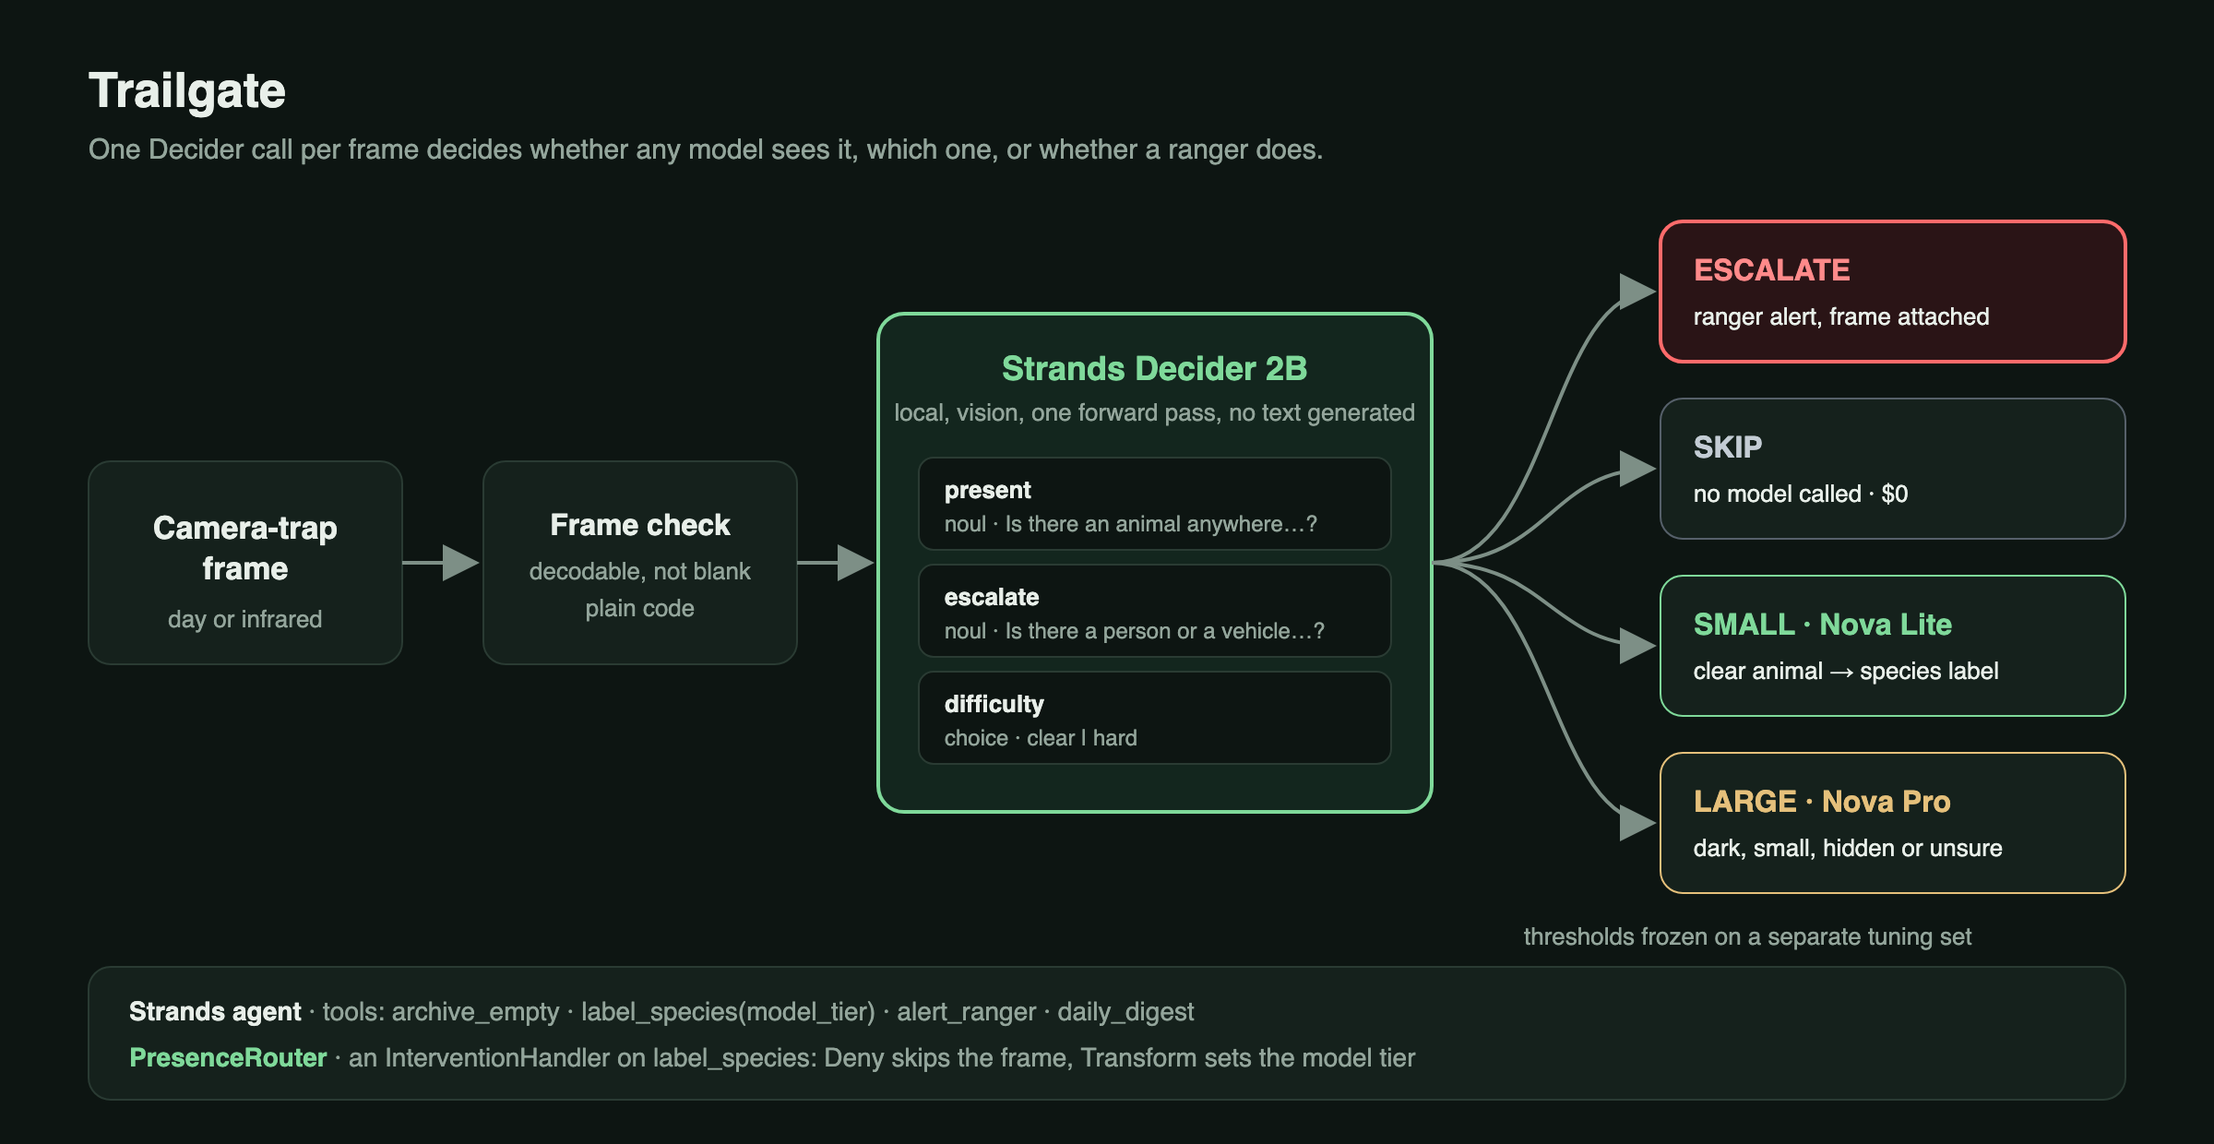
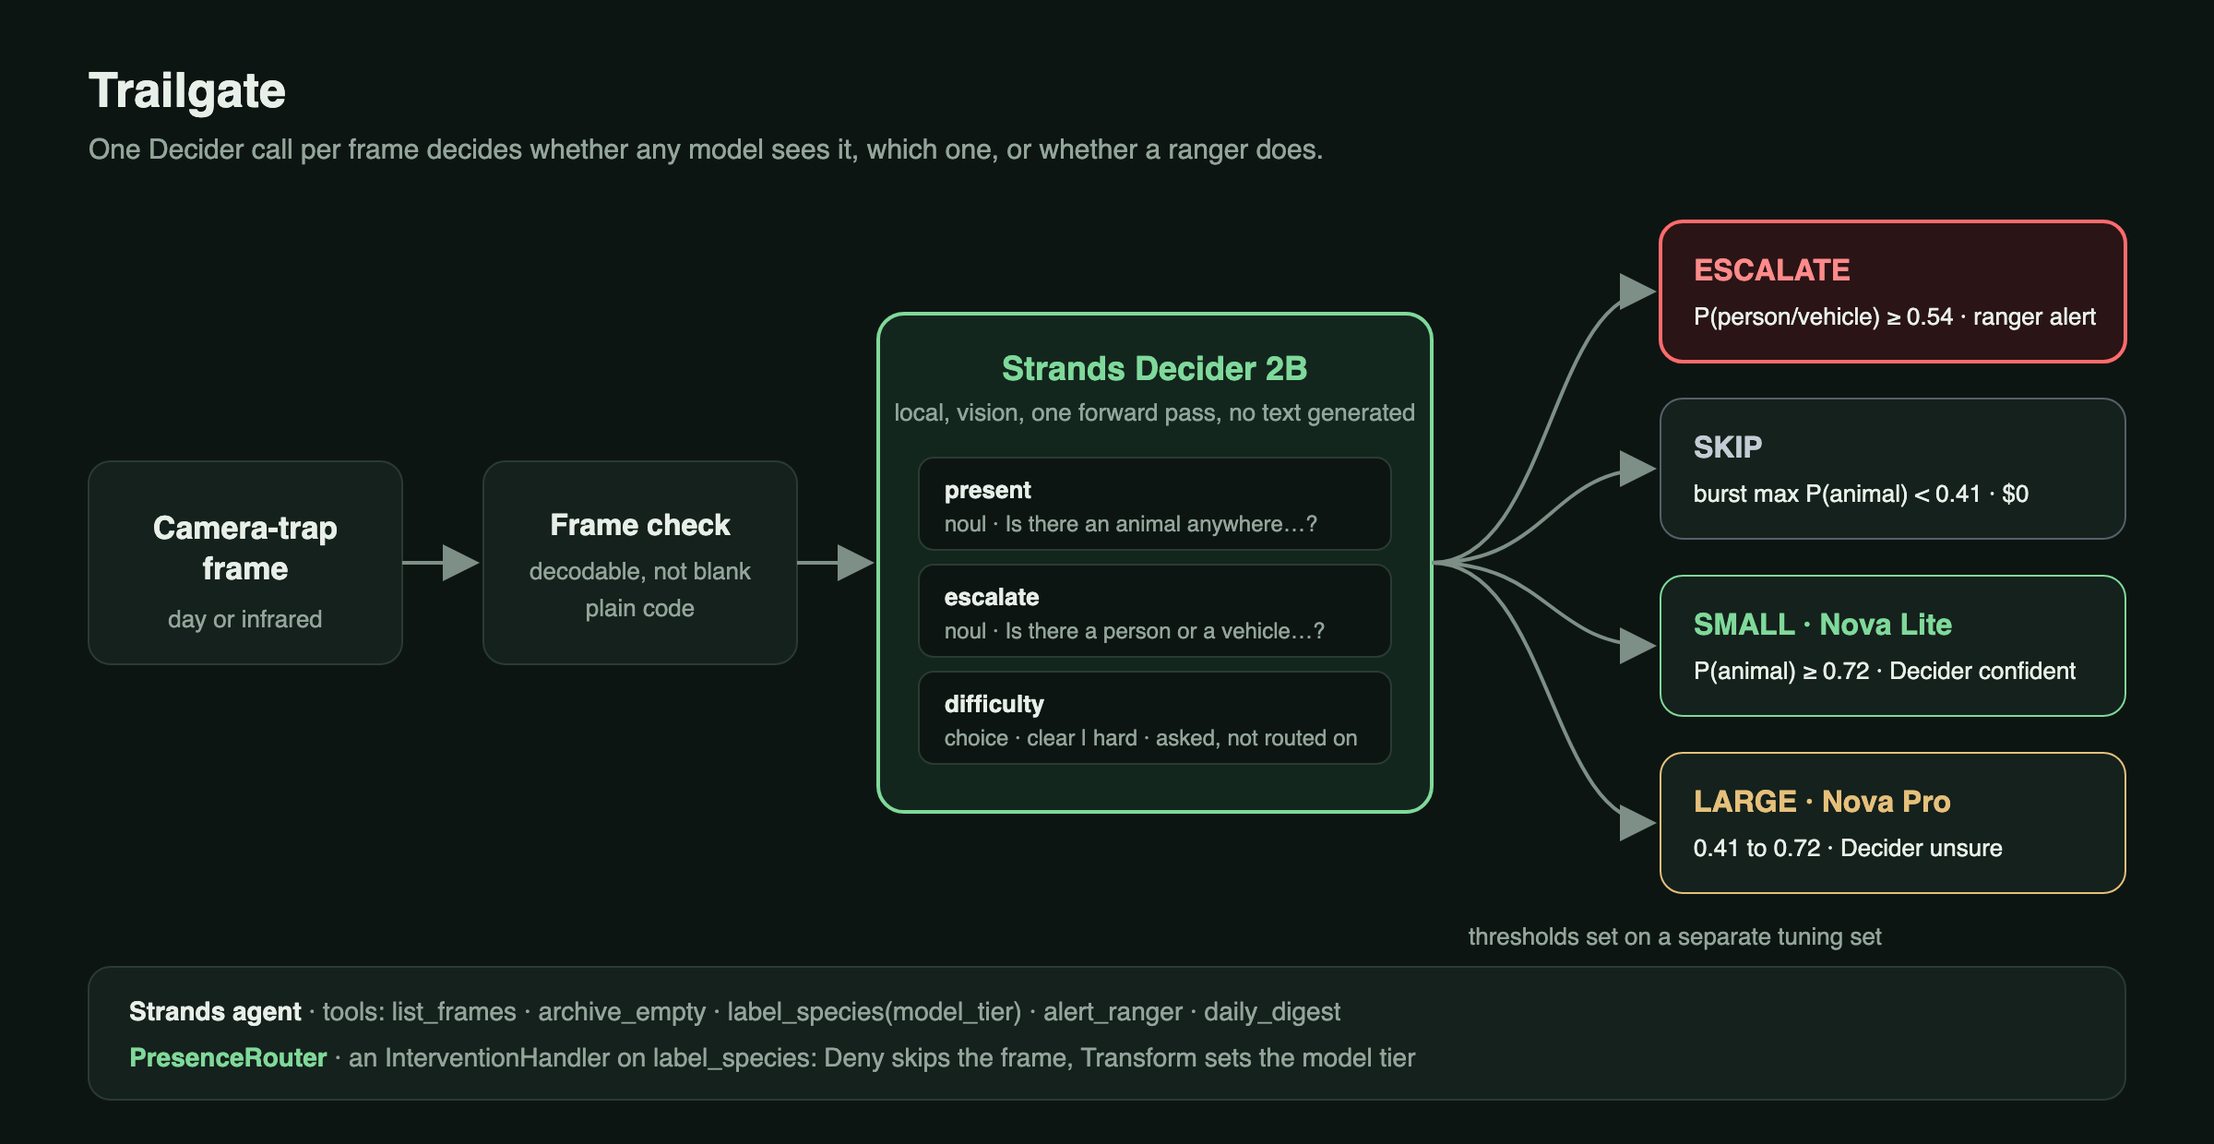
docs(readme): add frame-weighted results

diff --git a/README.md b/README.md
@@ -1,18 +1,18 @@
 # Trailgate
 
-**A 2B model decides which camera-trap photos are worth a model's time.** Empty frames are skipped with no model call. Animals go to the right-sized Amazon Nova model. A person or vehicle goes straight to the ranger.
+**A 2B model decides which camera-trap photos are worth a model's time.** Empty frames are skipped with no model call, animals go to the right-sized Amazon Nova model, and a person or vehicle goes to the ranger.
 
 Built for the AWS Builder Center *Agent Experience Hackathon: Strands Decider*. Tags: `#strands-decider-2b` `#model-routing`.
 
-**Try it in a browser:** https://trytrailgate.vercel.app replays real Decider answers on held-out frames in the ranger console. It is a static replay; running Decider live needs the local setup below.
+**Try it in a browser.** https://trytrailgate.vercel.app replays real Decider answers on held-out frames in the ranger console. It is a static replay with Bedrock costs shown as estimates. Running Decider live needs the local setup below.
 
 ![Six held-out Caltech Camera Traps frames, each stamped with the route Trailgate gave it](assets/cover.png)
 
 ## The problem
 
-Camera traps fire on anything that moves: wind, grass, heat shimmer. In the Caltech Camera Traps label file, 125,745 of 243,100 images are labelled empty (51.7%). People sort these cards by hand, often weeks after the memory card is pulled, so a vehicle on a trail at night is seen long after it mattered.
+Camera traps fire on anything that moves, including wind, grass and heat shimmer. In the Caltech Camera Traps label file, 125,745 of 243,100 images are labelled empty (51.7%). Someone has to sort those by hand, and a vehicle on a trail at night sits in the same pile as the grass.
 
-Sending every frame to a vision model works, but you pay for every empty frame, and the cheapest model is not the one you want on a dark infrared shot.
+Sending every frame to a vision model works, but you pay for every empty frame, and the cheapest model is the wrong one for a dark infrared shot.
 
 ## What Trailgate does
 
@@ -20,18 +20,18 @@ Every frame gets one call to Strands Decider 2B, running locally with its vision
 
 | Route | When | What happens | Cost |
 |---|---|---|---|
-| **Alert** | P(person or vehicle) ≥ 0.54 in any frame of the burst | Ranger alert with the frame attached (outbox, optional Amazon SNS); Nova writes the one-line note | Nova Lite + Nova Pro |
+| **Alert** | P(person or vehicle) ≥ 0.54 in any frame of the burst | Ranger alert naming the frame (outbox, optional Amazon SNS); Nova writes the one-line note | Nova Lite + Nova Pro |
 | **Skip** | max P(animal) over the burst < 0.41 | Archived. No model is called | $0 |
-| **Nova Lite** | P(animal) ≥ 0.72: Decider is confident | Species label from the 21 CCT classes | Nova Lite |
-| **Nova Pro** | anything in between: Decider is unsure | Species label from the stronger model | Nova Pro |
+| **Nova Lite · Decider confident** | P(animal) ≥ 0.72 | Species label from the 21 CCT classes | Nova Lite |
+| **Nova Pro · Decider unsure** | anything in between | Species label from the stronger model | Nova Pro |
 
-Thresholds were set on a separate tuning set of 13 camera locations and frozen before the held-out run (`results/thresholds.json`, rule written next to each value).
+These are the v2 thresholds. I set them on a separate tuning set from 13 camera locations and froze them before the held-out run. `results/thresholds.json` records the rule behind each value.
 
 ![Architecture](assets/architecture.png)
 
 ## The decision handed to Decider
 
-Pattern tag: **`#model-routing`**. The question is "does this frame need a model at all, and if so, which one?", and the cheapest tier is no model.
+Pattern tag **`#model-routing`**. The question is "does this frame need a model at all, and if so, which one?", and the cheapest tier is no model. Two questions are `noul`, Decider's yes/no type, which returns P(true). `difficulty` is a `choice` between `clear` and `hard`. All three go in one call, so the image is encoded once.
 
 ```python
 {
@@ -66,7 +66,7 @@ Remove Decider and the agent has no way to decide what to skip, which model to p
 
 ## Results
 
-Held-out set: **600 Caltech Camera Traps frames from 71 camera locations never used for tuning**, in their natural mix (310 empty, 271 animal, 19 vehicle), plus 40 more vehicle frames. Every frame of each held-out burst was asked (1,079 frames). One Decider call per frame. Full tables: [`results/metrics.md`](results/metrics.md).
+The held-out set is **600 Caltech Camera Traps frames from 71 camera locations never used for tuning**, in their natural mix (310 empty, 271 animal, 19 vehicle), plus 40 more vehicle frames. Decider answered every frame of each held-out burst, 1,079 frames, with one call per frame. Full tables are in [`results/metrics.md`](results/metrics.md).
 
 | | Empty frames skipped | Animal frames missed | Vehicles caught | Decider latency p50 / p90 |
 |---|---|---|---|---|
@@ -75,8 +75,8 @@ Held-out set: **600 Caltech Camera Traps frames from 71 camera locations never u
 | Night (infrared) | 32/82 (39.0%) | 4/159 (2.5%) | | |
 
 - **The missed animals, checked by eye.** Of the 9 animal frames Trailgate skipped, 1 shows an animal clearly (a bird's tail in a corner), 4 show something faint (eye shine or a shape), and in 4 I can see nothing. Thumbnails: [`results/missed.md`](results/missed.md).
-- **Alerts.** 4 held-out frames without a `car` label raised an alert. 3 of them show people: the dataset has no person class and labels them `empty`, so those alerts are correct. 1 is a true false alert, a deer under a street lamp. The 2 missed vehicles are a dark dawn frame and a motion-blurred shape under a bridge.
-- **Calibration.** When Decider gives P(animal) ≥ 0.9, the frame has an animal 171 times out of 172. Between 0.2 and 0.7 the scores are poorly calibrated, which is why that band goes to the stronger model instead of being trusted.
+- **Alerts.** 4 held-out frames without a `car` label raised an alert. 3 of them show people, whom the dataset labels `empty` because it has no person class, so those alerts are correct. 1 is a true false alert, a deer under a street lamp. The 2 missed vehicles are a dark dawn frame and a motion-blurred shape under a bridge.
+- **Low confidence goes to Nova Pro.** When Decider gives P(animal) ≥ 0.9, the frame has an animal 171 times out of 172. Between 0.2 and 0.7 the scores are poorly calibrated, so that band goes to the stronger model. On the held-out set it held 165 of 600 frames.
 
 ![Skip threshold against animals missed](results/tradeoff.png)
 
@@ -91,9 +91,9 @@ The skip threshold is a safety knob. With v2 at 0.20, no held-out animal is miss
 | Trailgate v1 (difficulty-gated, superseded) | $10.27 |
 | Nova Lite on every frame | $1.20 |
 
-These are estimates: Bedrock on-demand prices (AWS Price List API, us-east-1) times Nova's documented image token counts for a 1024×747 frame, about 1,944 input tokens per call. Bedrock calls were not measured, because the Bedrock quota on the account used for this build was 0 during the hackathon. `scripts/run_nova_baseline.py` measures them, with species accuracy, on any account with Nova access, and `scripts/evaluate.py` merges the result.
+All Bedrock costs here are estimates. They are Bedrock on-demand prices (AWS Price List API, us-east-1) times Nova's documented image token counts for a 1024×747 frame, about 1,944 input tokens per call. I could not measure Bedrock calls because the account's Bedrock quota for Nova was 0 during the hackathon. `scripts/run_nova_baseline.py` measures them, with species accuracy, on any account with Nova access, and `scripts/evaluate.py` merges the result. Decider itself is measured, at p50 472 ms and $0 per frame.
 
-Trailgate costs 35% of Nova Pro on every frame and sends 26.5% of all frames nowhere. It costs more than Nova Lite on every frame, because the 165 frames Decider is unsure about go to Nova Pro. If Nova Lite proves accurate enough on those frames, set `TRAILGATE_LARGE_MODEL` to Nova Lite: with the same token estimate, that comes to about $0.93 per 10,000 frames, below Nova Lite on every frame.
+Trailgate costs 34.6% of Nova Pro on every frame and sends 26.5% of the sampled frames to no model. Those figures count one sampled frame per burst, the unit the dataset labels. Counted over all 1,079 frames of the held-out bursts, 17.4% of frames reach no model, 165 of 354 empty frames (46.6%) are skipped, and 23 of 706 animal frames (3.3%) are skipped. It costs more than Nova Lite on every frame, because the 165 frames Decider is unsure about go to Nova Pro. If Nova Lite proves accurate enough on those frames, set `TRAILGATE_LARGE_MODEL` to Nova Lite. With the same token estimate that comes to about $0.93 per 10,000 frames, below Nova Lite on every frame.
 
 ### What changed between v1 and v2
 
@@ -103,31 +103,31 @@ Trailgate costs 35% of Nova Pro on every frame and sends 26.5% of all frames now
 | v2 without bursts (ablation) | 49.0% | 23/271 (8.5%) | $5.10 |
 | **v2: confidence band + burst context** | **48.4%** | **9/271 (3.3%)** | **$5.55** |
 
-Two findings drove v2, and both are in the data:
+Two findings drove v2, and both are in the data.
 
-1. **The difficulty question carries little signal.** Decider called 504 of 600 frames "hard", and P(hard) separates night infrared frames from day frames with AUC 0.67. v1 sent every "hard" frame to Nova Pro. v2 still asks the question, since a batched question is nearly free, but routes on Decider's confidence in P(animal) instead.
-2. **Camera traps fire in bursts, and the dataset labels the burst.** 13 of v1's 16 misses were the second or third frame of a burst, often after the animal had left the frame. v2 skips a frame only if no frame in its burst scores above the threshold. That cut missed animal frames from 23 to 9 at the same thresholds.
+1. **The difficulty question carries little signal.** Decider called 504 of 600 frames "hard", including 192 of 271 animal frames, and P(hard) separates night infrared frames from day frames with AUC 0.67. v1 sent every "hard" frame to Nova Pro. v2 still asks the question, since a batched question is nearly free, but routes on Decider's confidence in P(animal) instead.
+2. **Camera traps fire in bursts, and the dataset labels the burst.** 13 of v1's 16 misses were the second or third frame of a burst, often after the animal had left the frame. The burst rule in v2 skips a frame only if no frame in its burst scores above the threshold. That cut missed animal frames from 23 to 9 at the same thresholds.
 
-v2's thresholds were derived again from the tuning set only. The held-out set was evaluated once per policy.
+I derived v2's threshold values again from the tuning set only. The v2 policy itself, though, was chosen after seeing where v1 failed on the held-out set, so v2's held-out numbers are a second look at the same frames, not a clean first test. The ablation row shows what each change does on its own.
 
 ### Question wording (tuning set)
 
-Following Mike Chambers' method, five wordings of the presence question were scored in one batched Decider call per frame ([`results/wording.md`](results/wording.md)). Adding explicit true/false criteria barely moved AUC (0.951 to 0.954), but it lifted the scores of real animals: at a 0.35 threshold, recall rose from 88.4% to 100%. Asking the same wording in a 9-question call and in the 3-question production call changed P(animal) by at most 0.004.
+Following Mike Chambers' method, I scored five wordings of the presence question in one batched Decider call per frame ([`results/wording.md`](results/wording.md)). Adding explicit true/false criteria barely moved AUC (0.951 to 0.954), but it lifted the scores of real animals. At a 0.35 threshold, recall rose from 88.4% to 100%. Asking the same wording in a 9-question call and in the 3-question production call changed P(animal) by at most 0.004.
 
 ## Why each product
 
 | Product | Role | Why it, measured |
 |---|---|---|
-| **Strands Decider 2B** | The routing decision on every frame | One forward pass, no text generated: p50 472 ms per frame on an Apple M5 laptop, $0 per call. Three questions about one image cost one encode. It returns probabilities, so the policy is a threshold set on labelled data, not a prompt. |
+| **Strands Decider 2B** | The routing decision on every frame | One forward pass, no text generated. p50 472 ms per frame on an Apple M5 laptop, $0 per call. Three questions about one image cost one encode. It returns probabilities, so the policy is a threshold set on labelled data, not a prompt. |
 | **Amazon Bedrock, Nova Lite** | Species label when Decider is confident | 13× cheaper per input token than Nova Pro ($0.00006 vs $0.0008 per 1K) |
 | **Amazon Bedrock, Nova Pro** | Species label when Decider is unsure | The stronger model goes only to the 165 of 600 frames in Decider's uncertain band |
 | **Bedrock Converse API** | Image bytes in, structured JSON out | One call shape for both Nova tiers and the alert writer; the tier is a model id |
-| **Strands Agents** | The ranger's agent: `archive_empty`, `label_species`, `alert_ranger`, `daily_digest` | `InterventionHandler` puts the decision in the tool path: `Deny` skips the frame before the model runs, `Transform` sets the tier |
+| **Strands Agents** | The ranger's agent, with `list_frames`, `archive_empty`, `label_species`, `alert_ranger`, `daily_digest` | `InterventionHandler` puts the decision in the tool path. `Deny` skips the frame before the model runs, `Transform` sets the tier |
 | **Amazon SNS** (optional) | Ranger alert to a phone | Set `TRAILGATE_ALERT_TOPIC_ARN`; alerts always land in `outbox/alerts.jsonl` too |
 
 ## The reusable pattern: `PresenceRouter`
 
-[`patterns/presence_router/`](patterns/presence_router/) holds the typed questions, a framework-free router, and a Strands `InterventionHandler`. It works for any agent that sends images to an expensive model: change `target` to "a parcel or package", "a defect" or "a document".
+[`patterns/presence_router/`](patterns/presence_router/) holds the typed questions (`questions.py`), a framework-free router with the confidence band and burst rule (`router.py`), the Strands `InterventionHandler` (`handler.py`) and a wording and threshold tuner (`tune_questions.py`). It works for any agent that sends images to an expensive model. Change `target` to "a parcel or package", "a defect" or "a document".
 
 ```python
 from strands import Agent
@@ -141,14 +141,14 @@ router = PresenceRouter(
 agent = Agent(tools=[describe_image], interventions=[router])
 ```
 
-`on_error = "proceed"`: if Decider is down, the tool runs with the larger model, so a broken router costs money but never drops an image. [`examples/parcel_photos.py`](examples/parcel_photos.py) is a second agent built on it. The pattern README covers thresholds from your own 50 labelled images, burst routing and limits.
+The handler sets `on_error = "proceed"`. If Decider is down, the tool runs with the larger model, so a broken router costs money but never drops an image. [`examples/parcel_photos.py`](examples/parcel_photos.py) is a second agent built on it. The [pattern README](patterns/presence_router/README.md) covers setting thresholds from about 50 of your own labelled images, burst routing and limits.
 
 ## Limits
 
 - Decider is zero-shot on images. These numbers hold for Caltech Camera Traps frames; measure on your own cameras before trusting the thresholds.
 - Night infrared is weaker: 39.0% of empty night frames skipped, against 51.8% by day.
 - The tuning set's zero-miss threshold did not transfer to held-out cameras without misses (AUC 0.954 on tuning, 0.900 on held-out at the frame level).
-- Decider stays confident on a blank image, so frames are checked in code (decodable, not uniform) before Decider sees them.
+- Decider stays confident on a blank image, so code checks each frame (decodable, not uniform) before Decider sees it.
 - The tuning set has only 5 person or vehicle frames. The vehicle numbers come from 59 held-out vehicle frames; people come only from frames the dataset mislabels as empty.
 - Bedrock costs are estimates until `scripts/run_nova_baseline.py` runs on an account with Nova quota.
 - Small sets: 0 errors on a subset means none on these frames, not solved.
@@ -165,11 +165,11 @@ python scripts/fetch_cct.py                         # tuning, held-out and vehic
 python scripts/fetch_bursts.py                      # the rest of each held-out burst
 python -m trailgate run /path/to/card --digest                                   # triage a card, bursts grouped by EXIF time
 python -m trailgate run --manifest data/heldout_bursts.csv --no-bedrock  # held-out bursts, Decider routing only
-python -m trailgate agent "Process tonight's card in data/images and tell me what needs me"
+python -m trailgate agent "Process the card in /path/to/small/folder and tell me what needs me"
 python -m trailgate.server                          # ranger console on http://127.0.0.1:8000
 ```
 
-`--vision` runs on PyTorch devices (`mps`, `cuda`, `cpu`), not MLX. Configuration lives in `.env.example`.
+`--vision` runs on PyTorch devices (`mps`, `cuda`, `cpu`), not MLX. Settings are environment variables listed in `.env.example`; export them in your shell, nothing loads the file automatically. The Strands agent routes one frame at a time (the per-frame ablation row, 23/271 missed), and its own Bedrock model calls are not in the cost tables; the burst rule and the published numbers come from `python -m trailgate run`.
 
 ### Reproduce the numbers
 
@@ -182,7 +182,7 @@ python scripts/charts.py
 python scripts/run_nova_baseline.py                 # Nova Lite and Nova Pro on every frame (needs Bedrock)
 ```
 
-Every Decider answer behind these numbers is committed in `results/decider_answers.jsonl` and `results/tune_answers*.jsonl`. Frames checked by eye are listed in `results/label_audit.csv`.
+Every Decider answer behind these numbers is committed in `results/decider_answers.jsonl` and `results/tune_answers*.jsonl`. `results/label_audit.csv` lists the frames I checked by eye.
 
 ## Repository
 
@@ -198,6 +198,6 @@ assets/                     cover image and architecture diagram
 
 ## Data and licence
 
-Images and labels: [Caltech Camera Traps](https://lila.science/datasets/caltech-camera-traps) (Beery et al., ECCV 2018), Community Data License Agreement, permissive variant. Images are not stored in this repository; `scripts/fetch_cct.py` downloads the exact frames listed in `data/`.
+Images and labels: [Caltech Camera Traps](https://lila.science/datasets/caltech-camera-traps) (Beery et al., ECCV 2018), Community Data License Agreement, permissive variant. This repository does not store the images. `scripts/fetch_cct.py` downloads the exact frames listed in `data/`.
 
 Code: Apache-2.0.
